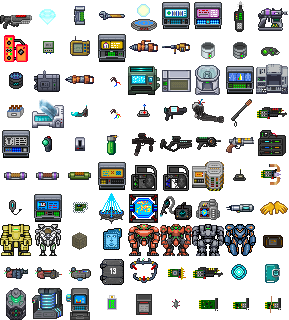
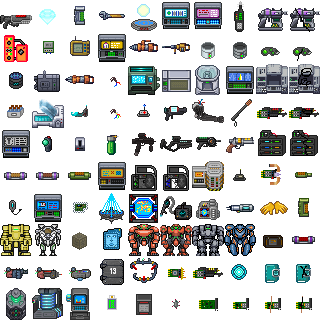
It complies

diff --git a/nano/css/shared.css b/nano/css/shared.css
@@ -899,7 +899,10 @@ img.sciTechTreeIconToolTip {
 
 .icon-supercell { background-position: 0px -160px; }
 .icon-hypercell { background-position: -32px -160px; }
+.icon-omegacell { background-position: -256px -224px; }
+.icon-atomsmall { background-position: -256px -256px; }
 .icon-bluespacecell { background-position: -64px -160px; }
+.icon-atomlarge { background-position: -256px -288px; }
 .icon-solarcontrol { background-position: -96px -160px; }
 .icon-generator { background-position: -128px -160px; }
 .icon-supergenerator { background-position: -160px -160px; }
